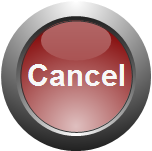
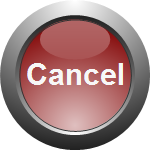
Added deselet buttons to self-serve. Added feature to auto-add riders to competition if s/he has a valid season's pass.

diff --git a/core/templates/self_serve.html b/core/templates/self_serve.html
@@ -8,7 +8,26 @@
 	{% if license_holder or status_entries or errors %}
 		setTimeout(function(){ window.location.href = "{{path_noargs}}"; }, 60*1000);
 	{% endif %}
-{% endblock %}
+	$('img').click(function() {
+		var srcCur = $(this).attr('src'), srcNext = null;
+		if( srcCur.indexOf('ok') != -1 )
+			srcNext = $("#ok-deselect").attr('src');
+		else if( srcCur.indexOf('cancel') != -1 )
+			srcNext = $("#cancel-deselect").attr('src');
+		else if( srcCur.indexOf('scan') != -1 )
+			srcNext = $("#scan-deselect").attr('src');
+		if( srcNext != null )
+			$(this).attr('src', srcNext);
+		$('body').css({'cursor' : 'wait'});
+	});
+	
+	{% comment %}
+		Force a logout at midnight to reset to the next day's competition.
+	{% endcomment %}
+	var today = new Date();
+	var tomorrow = new Date(today.getFullYear(),today.getMonth(),today.getDate()+1);
+	setTimeout(function(){ window.location.href = "{{path_noargs}}2"; }, tomorrow-today);
+{% endblock onload %}
 
 {% block content %}
 <style>
@@ -25,6 +44,11 @@ div.title {
 
 </style>
 <p/>
+<div style="display:none">
+	<img id="ok-deselect" src="{% static "images/ok-btn-deselect-big.png" %}" />
+	<img id="scan-deselect" src="{% static "images/scan-btn-deselect-big.png" %}" />
+	<img id="cancel-deselect" src="{% static "images/cancel-btn-deselect-big.png" %}" />
+</div>
 <div class="title">
 <h3><a href="{{path_noargs}}2"><img src="{% static "images/RaceDB.png" %}" alt="RaceDB"/></a> {% trans "Self-Serve" %}
 	{% if rfid_antenna %}{% trans "Antenna" %} {{rfid_antenna}} {% endif %}

diff --git a/core/participant_key_filter.py b/core/participant_key_filter.py
@@ -6,6 +6,20 @@ from django.db import transaction, IntegrityError
 from TagFormat import getLicenseFromTag
 from models import SystemInfo
 
+def add_participant_from_license_holder( competition, license_holder ):
+	# Try to create a new participant from the license_holder and return that.
+	participant = Participant( competition=competition, license_holder=license_holder, preregistered=False ).init_default_values()
+	try:
+		participant.save()
+		participant.add_to_default_optional_events()
+		return license_holder, [participant]
+		
+	except IntegrityError as e:
+		# If this participant exists already, recover silently by going directly to the existing participant.
+		participants = list(Participant.objects.filter(competition=competition, license_holder=license_holder))
+		participants.sort( key = lambda p: p.category.sequence if p.category else p.bib )
+		return license_holder, participants
+
 def participant_key_filter( competition, key, auto_add_participant=True ):
 	# Convert the key to upper.
 	# The license_code, tag and tag2 are all stored in upper-case, so it is safe to do
@@ -56,15 +70,4 @@ def participant_key_filter( competition, key, auto_add_participant=True ):
 	if not auto_add_participant:
 		return license_holder, []
 	
-	# Try to create a new participant from the license_holder and return that.
-	participant = Participant( competition=competition, license_holder=license_holder, preregistered=False ).init_default_values()
-	try:
-		participant.save()
-		participant.add_to_default_optional_events()
-		return license_holder, [participant]
-		
-	except IntegrityError as e:
-		# If this participant exists already, recover silently by going directly to the existing participant.
-		participants = list(Participant.objects.filter(competition=competition, license_holder=license_holder))
-		participants.sort( key = lambda p: p.category.sequence if p.category else p.bib )
-		return license_holder, participants
+	return add_participant_from_license_holder( competition, license_holder )

diff --git a/core/self_serve.py b/core/self_serve.py
@@ -1,7 +1,7 @@
 from views_common import *
 from django.utils.translation import ugettext_lazy as _
 
-from participant_key_filter import participant_key_filter
+from participant_key_filter import participant_key_filter, add_participant_from_license_holder
 from ReadWriteTag import ReadTag, WriteTag
 
 #--------------------------------------------------------------------------
@@ -54,8 +54,6 @@ def SelfServeQRCode( request ):
 	if request.user.username != 'serve':
 		return HttpResponseRedirect( '/RaceDB' )
 	
-	print '**** called 2'
-	
 	exclude_breadcrumbs = True
 	qrpath = request.build_absolute_uri()
 	
@@ -71,8 +69,6 @@ def SelfServe( request, do_scan=0 ):
 	# Prevent non-serve users from coming here.
 	if request.user.username != 'serve':
 		return HttpResponseRedirect( '/RaceDB' )
-	
-	print '**** called 1'
 	
 	do_scan = int(do_scan)
 	
@@ -179,6 +175,10 @@ def SelfServe( request, do_scan=0 ):
 	if not license_holder:
 		errors.append( string_concat(_('Tag not found '), u' (', tag, u').') )
 		return render_to_response( 'self_serve.html', RequestContext(request, locals()) )
+	
+	# If the license holder has a season's pass for the competition, try to add him/her as a participant.
+	if not participants and competition.seasons_pass and competition.seasons_pass.has_license_holder(license_holder):
+		license_holder, participants = add_participant_from_license_holder( competition, license_holder )
 		
 	if not participants:
 		errors.append( _('Not Registered') )

diff --git a/core/models.py b/core/models.py
@@ -319,6 +319,9 @@ class SeasonsPass(models.Model):
 			sph.save()
 		return seasons_pass_new
 	
+	def has_license_holder( self, license_holder ):
+		return self.seasonspassholders_set.filter(license_holder=license_holder).exists()
+	
 	class Meta:
 		verbose_name = _("Season's Pass")
 		verbose_name_plural = _("Season's Passes")
